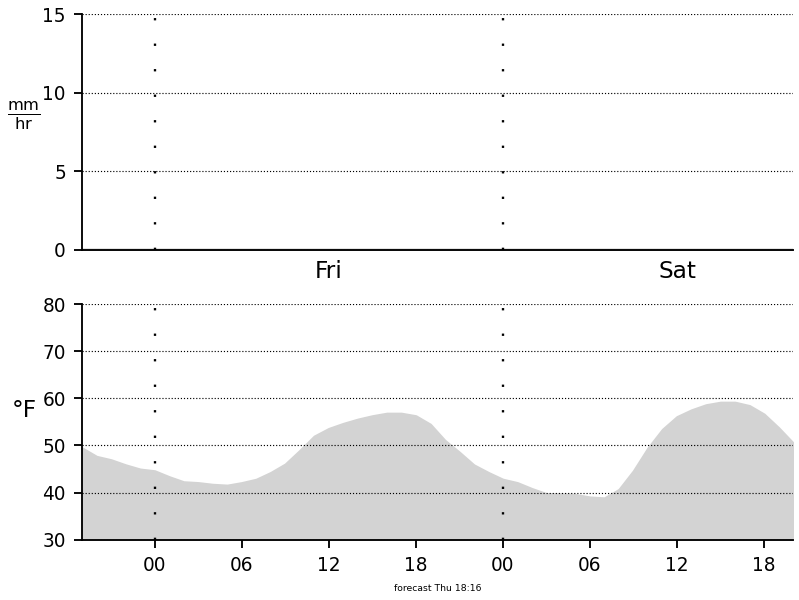
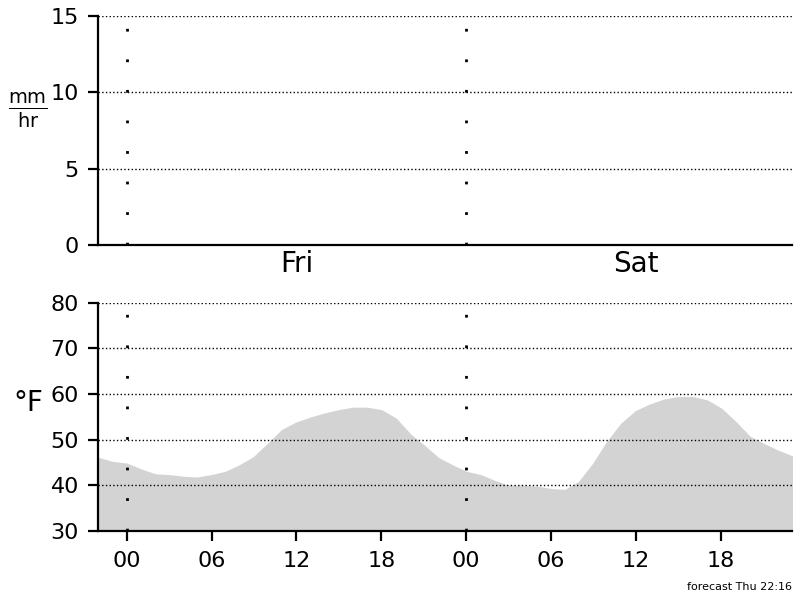
POST 26 minutes after the hour

diff --git a/main.py b/main.py
@@ -5,7 +5,7 @@ from dataclasses import dataclass
 from pathlib import Path
 from matplotlib.figure import Figure
 from matplotlib.dates import DateFormatter, HourLocator
-from matplotlib.ticker import MaxNLocator
+from matplotlib.ticker import MultipleLocator
 from zoneinfo import ZoneInfo
 
 import requests
@@ -51,7 +51,7 @@ class Weather:
 
 
 def f_from_c(c: float) -> float:
-    return 9 * c / 5 + 32.0
+    return 9.0 * c / 5.0 + 32.0
 
 
 def parse_weather(d: dict, duration: int) -> Weather:
@@ -82,7 +82,7 @@ def get_weather(
             return parse_weather(json.load(f), duration)
     assert user_agent is not None
     response = requests.get(
-        url="https://api.met.no/weatherapi/locationforecast/2.0/compact",
+        url="https://api.met.no/weatherapi/locationforecast/2.0/complete",
         headers={
             "user-agent": user_agent,
         },
@@ -108,7 +108,7 @@ def plot(
     height: int,
     tz: ZoneInfo,
 ) -> Path:
-    dpi = 167
+    dpi = 200
     fig = Figure(figsize=(width / dpi, height / dpi), dpi=dpi, layout="constrained")
     NUM_ROW = 2
     NUM_COL = 1
@@ -175,7 +175,7 @@ def plot(
             ax.xaxis.set_major_locator(HourLocator(byhour=[0, 6, 12, 18], tz=tz))
             ax.xaxis.set_major_formatter(DateFormatter("%H", tz=tz))
             generated = weather.generation_time.astimezone(tz=tz).strftime("%a %H:%M")
-            ax.set_xlabel(f"forecast {generated}", fontsize=4)
+            ax.set_xlabel(f"forecast {generated}", fontsize=4, loc="right")
 
         return ax
 
@@ -185,10 +185,10 @@ def plot(
     rain_ax.set_ylabel(
         r"$\frac{\text{mm}}{\text{hr}}$", rotation="horizontal", labelpad=8
     )
-    rain_ax.yaxis.set_major_locator(MaxNLocator(nbins=3))
+    rain_ax.yaxis.set_major_locator(MultipleLocator(5))
 
     temp_ax.set_ylabel("°F", rotation="horizontal", labelpad=8)
-    temp_ax.yaxis.set_major_locator(MaxNLocator(nbins=5))
+    temp_ax.yaxis.set_major_locator(MultipleLocator(10))
 
     out = Path("plot.png")
     fig.savefig(str(out), dpi=dpi)
@@ -198,7 +198,16 @@ def plot(
 def maybe_post(url: str | None, image: Path) -> None:
     if url is None:
         return
-    raise NotImplementedError()
+    with image.open("rb") as f:
+        response = requests.post(
+            url=url,
+            headers={
+                "Content-Type": "image/png",
+            },
+            data=f,
+        )
+    response.raise_for_status()
+
 
 
 def main():
